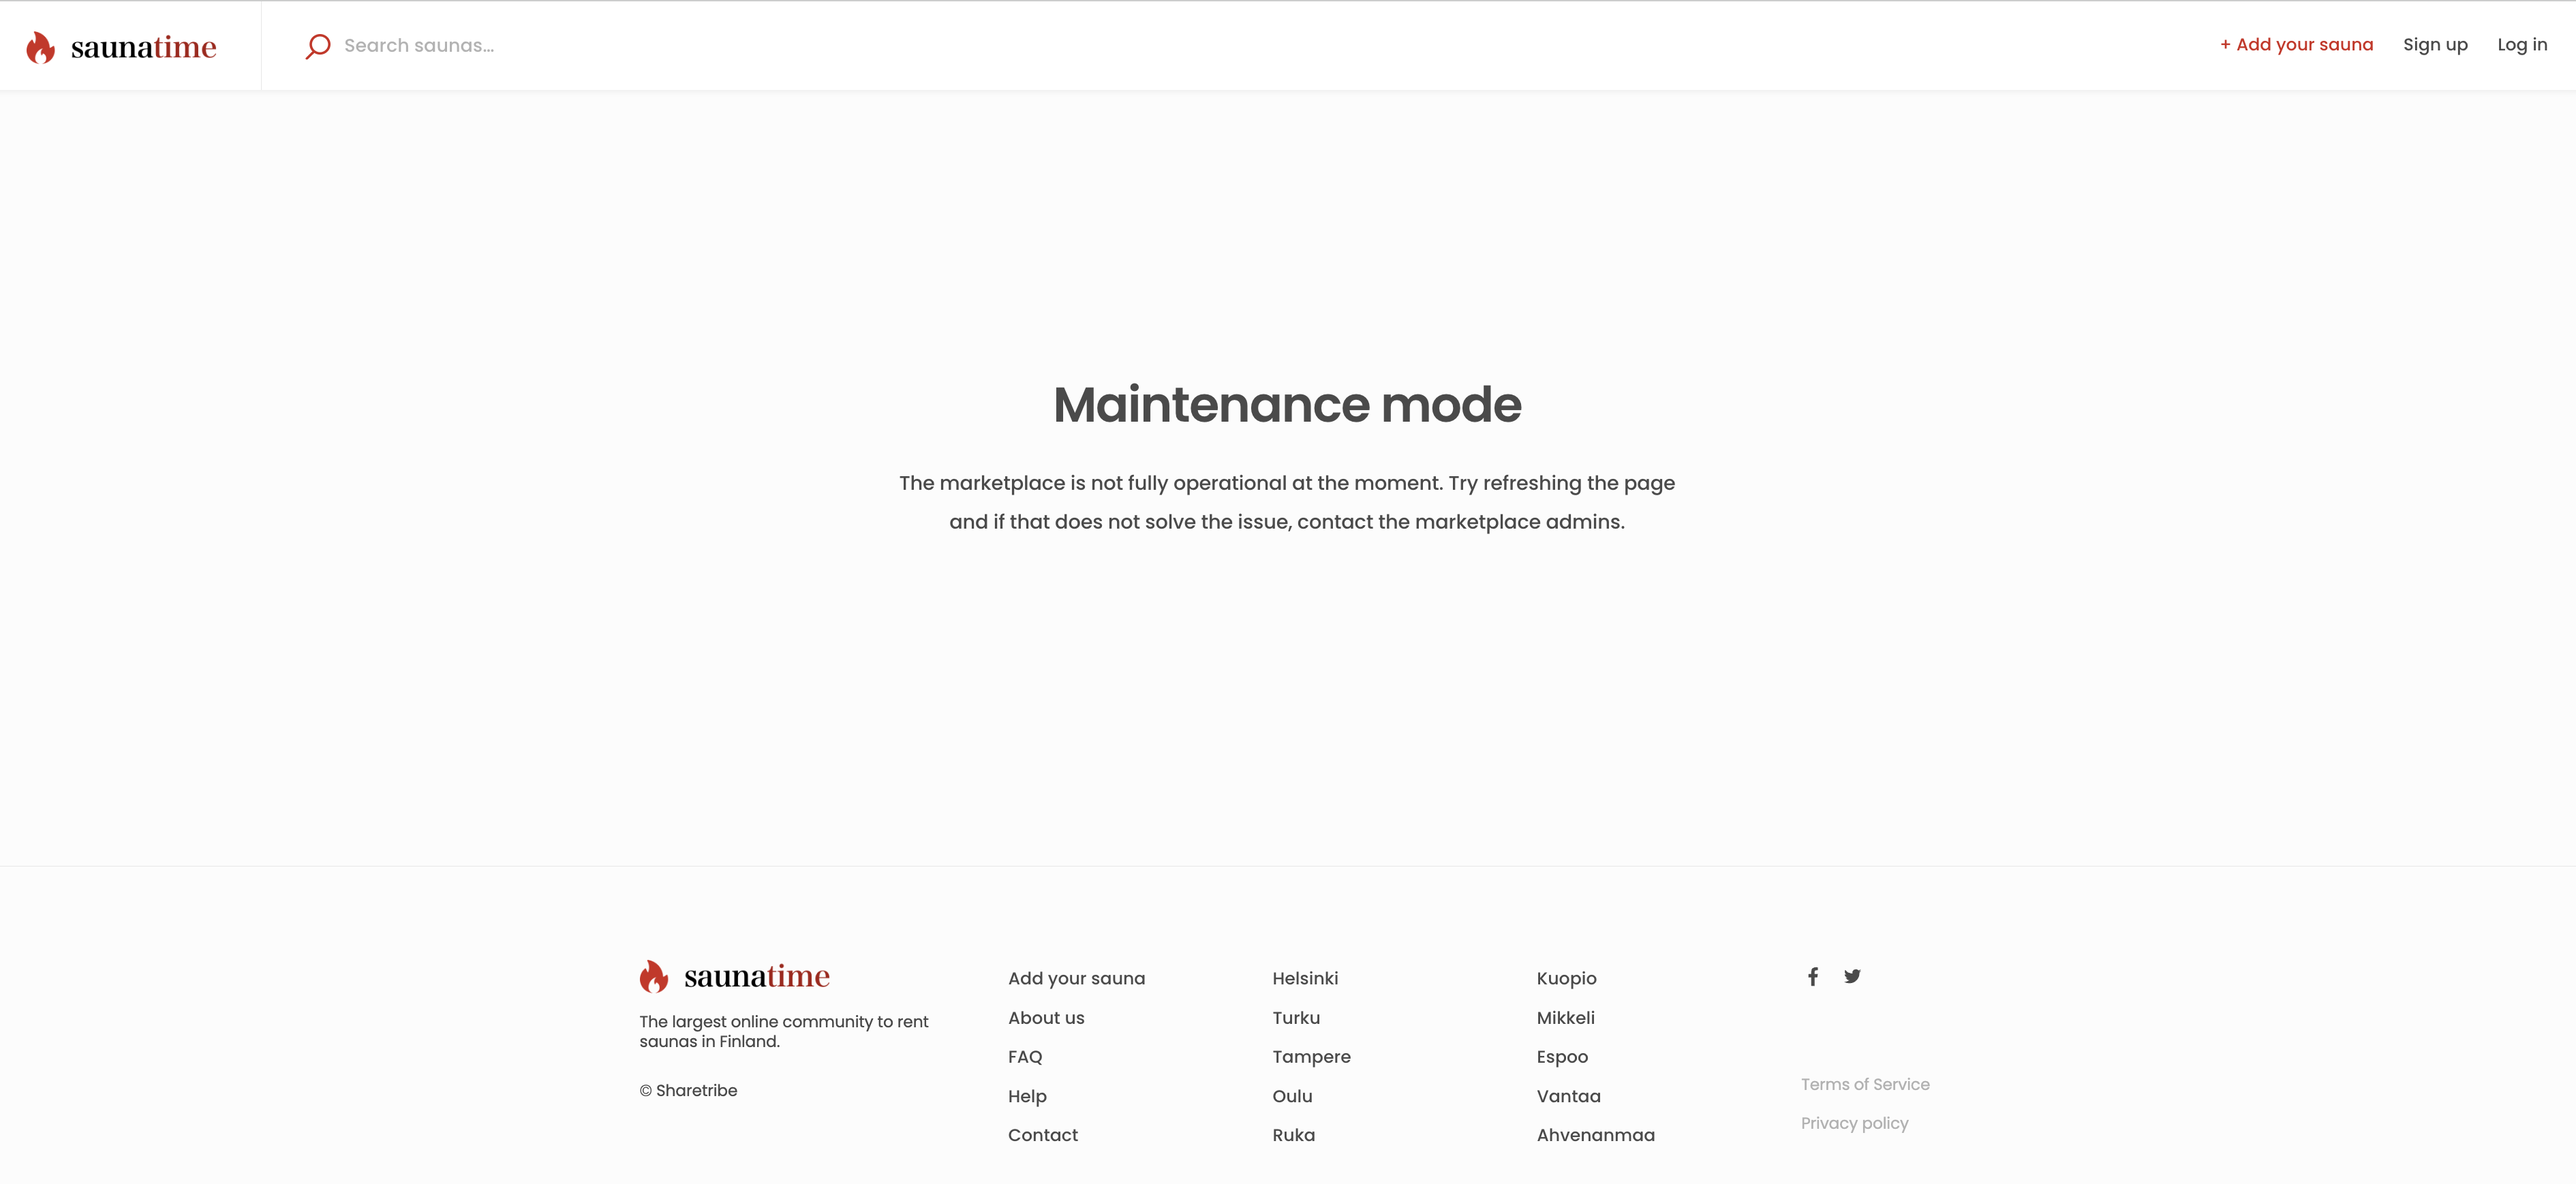
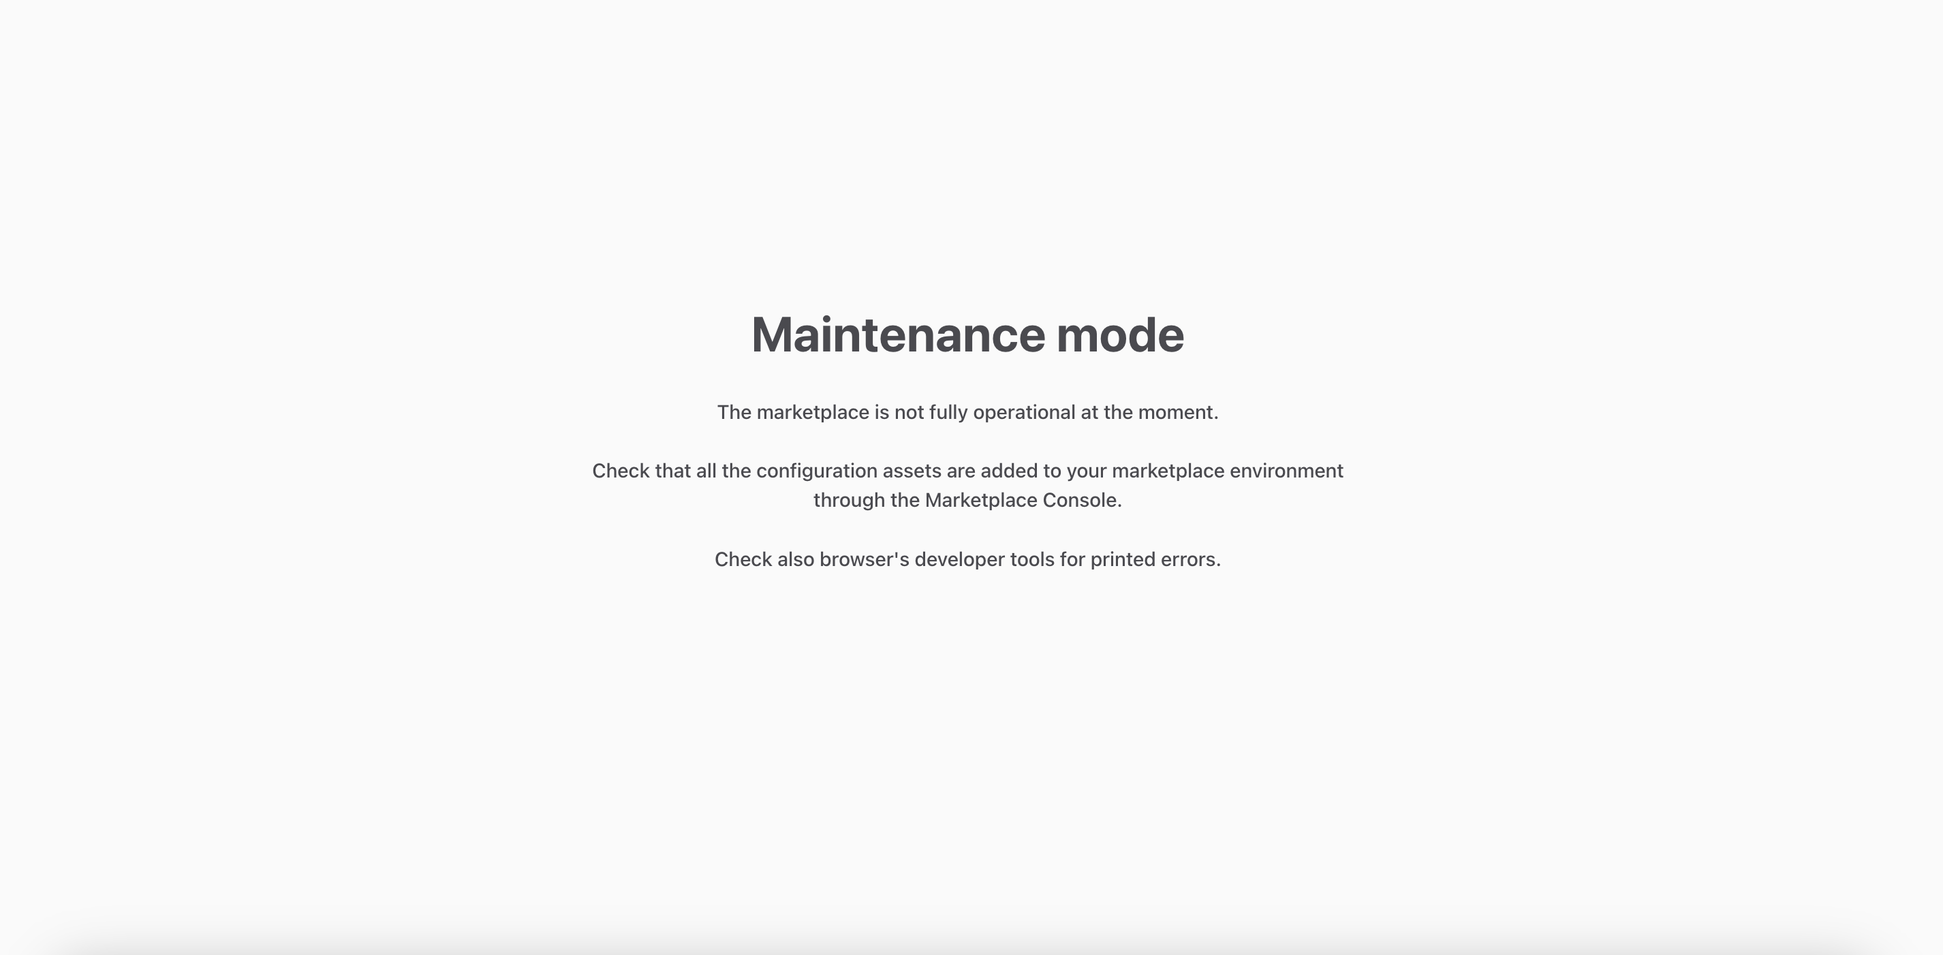
Add maintenance mode explanation

diff --git a/src/docs/ftw-content/page-builder/index.md b/src/docs/ftw-content/page-builder/index.md
@@ -306,6 +306,25 @@ containers/PrivacyPolicyPage/FallbackPage.js:
             └── FallbackPage.js
 ```
 
+## Maintenance mode
+
+If the marketplace is missing some mandatory configurations, you will
+see a fallback page with the title "Maintenance mode".
+
+![Maintenance mode page](./maintenance-mode.png)
+
+To fix the situation, make sure that you have added the following
+mandatory configurations in your Console:
+
+- Branding
+- Listing type
+- Listing fields
+- Minimum transaction size
+
+After you have made sure you have all these configurations added in your
+Console, refresh the browser. Your marketplace should now show up with
+the configurations you added.
+
 ## How to take Pages into use if you are using a legacy template
 
 All Sharetribe Web Template versions support Pages. If you want to add
